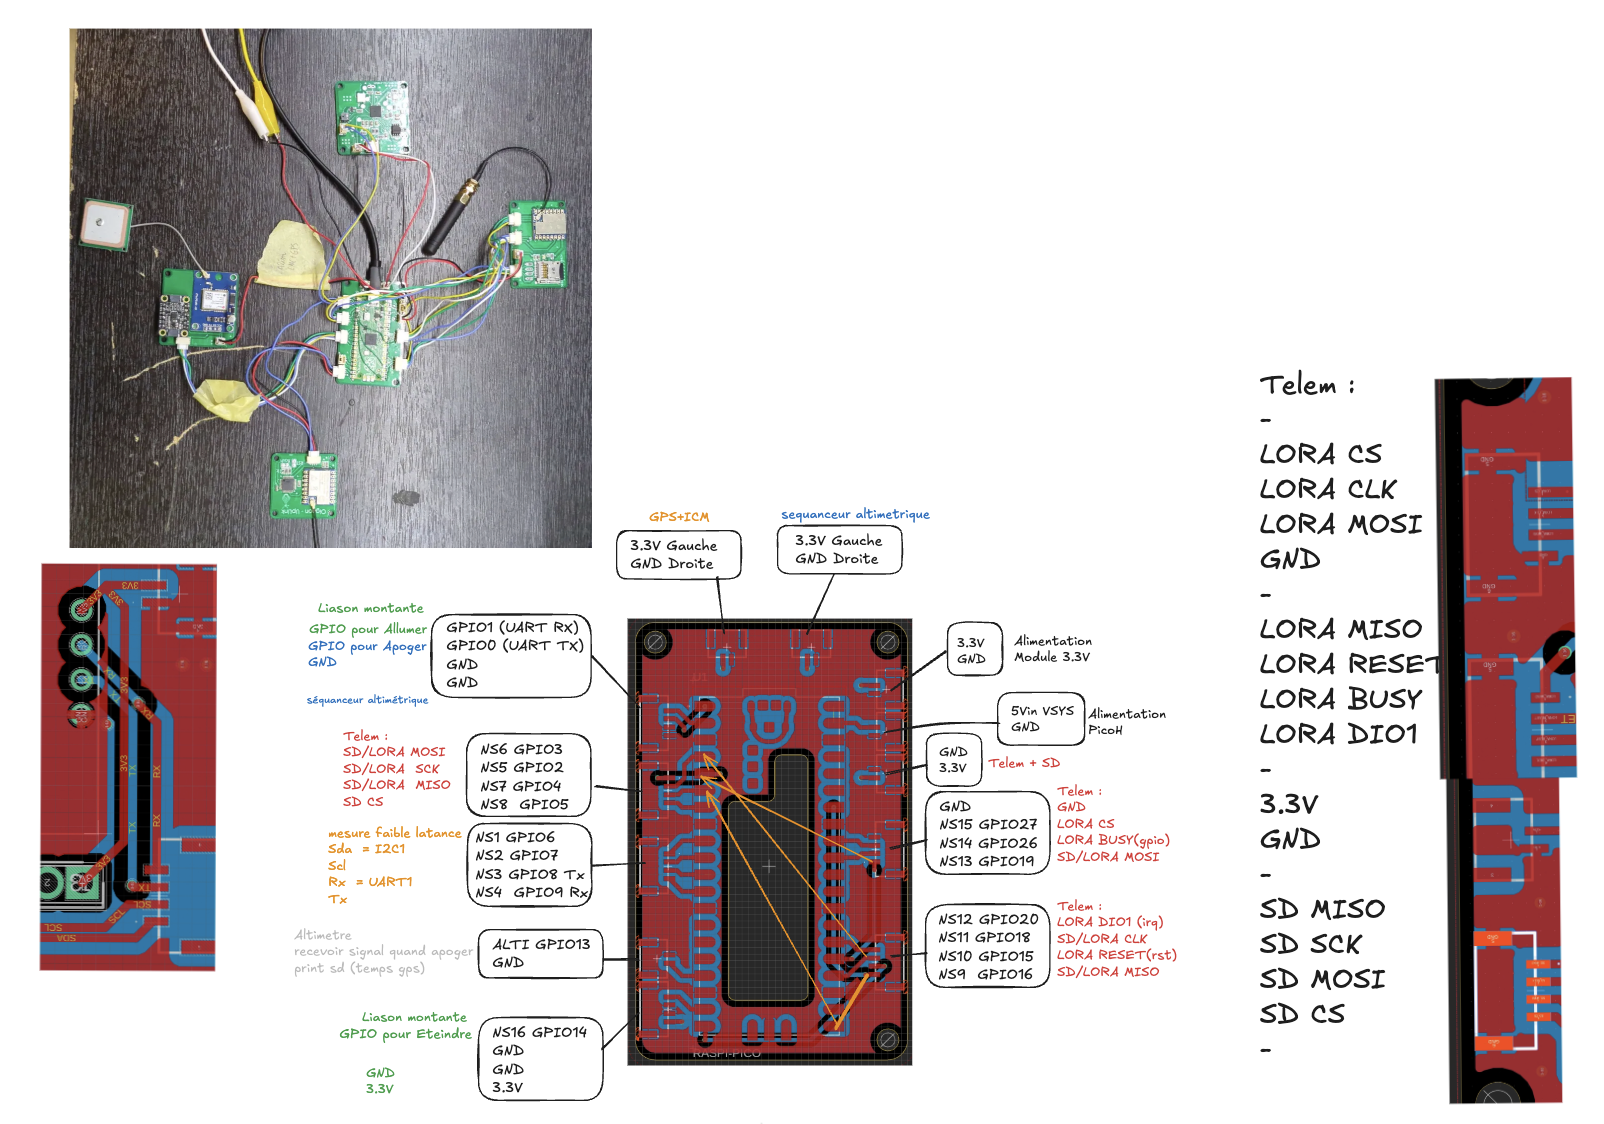
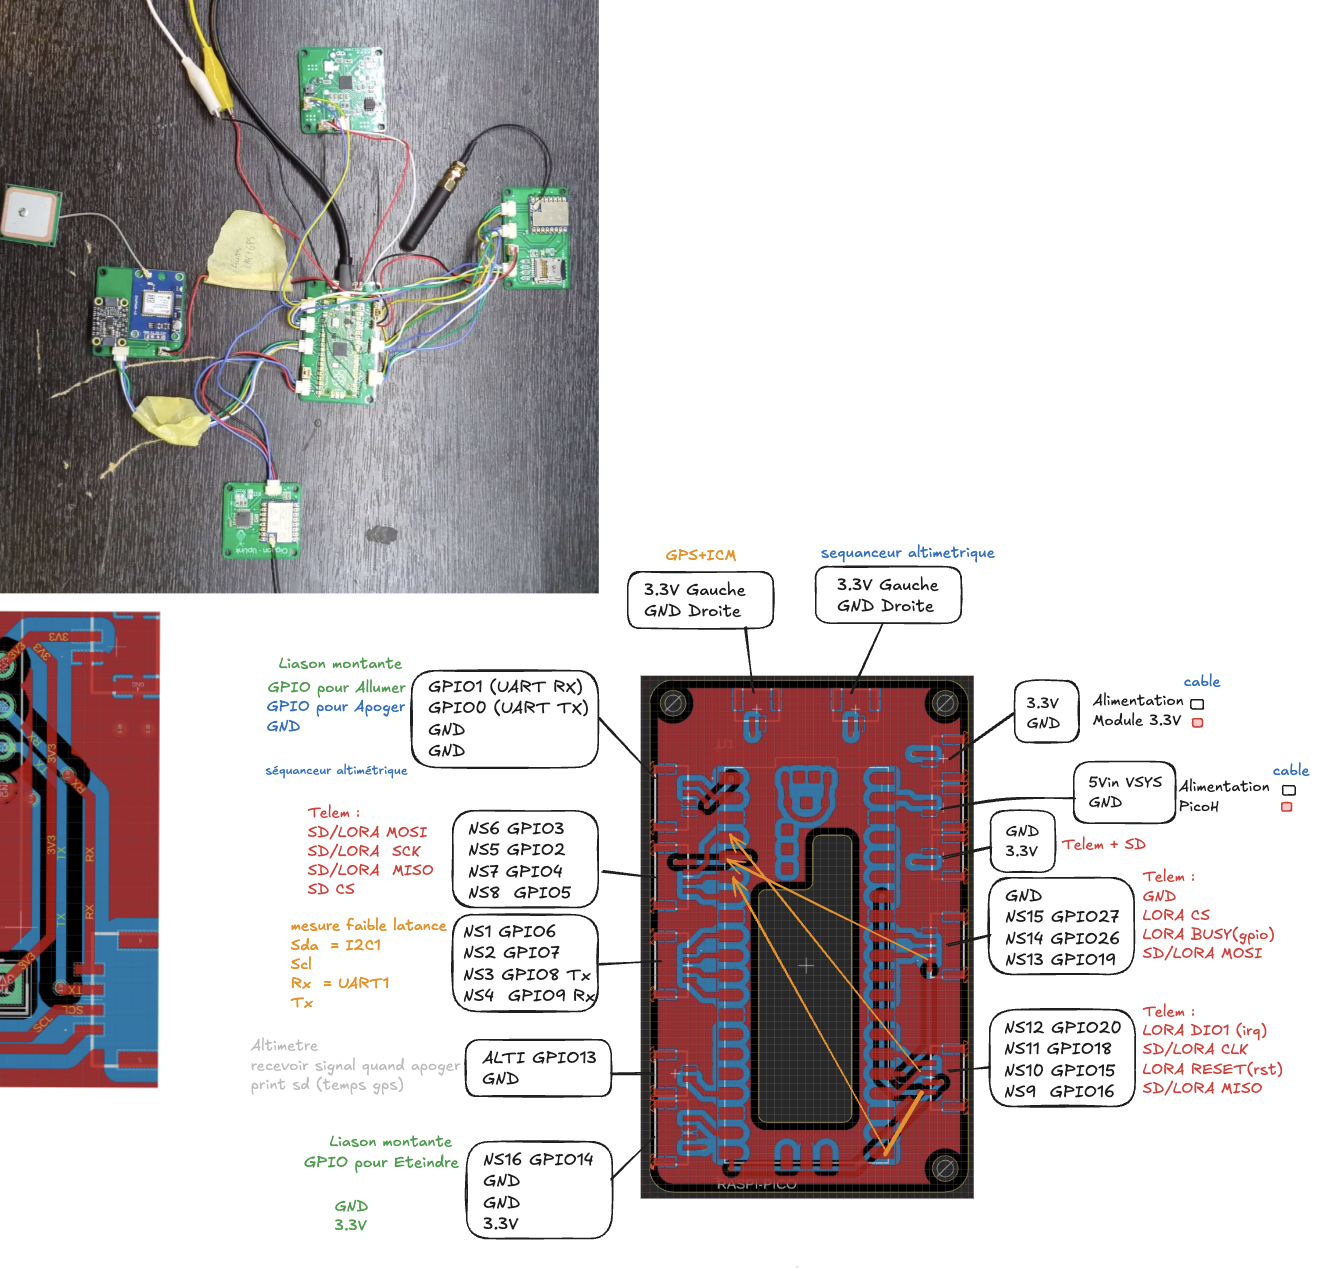
upate doc

diff --git a/ODV/ODV_in_raspi/main.py b/ODV/ODV_in_raspi/main.py
@@ -6,6 +6,8 @@ from GPSdata import GPSdata
 from LoRaTransceiver import LoRaTransceiver
 import gc
 
+gc.enable()
+
 toggelApo:bool = False
 toggelAll:bool = False
 toggelEte:bool = False
@@ -105,6 +107,7 @@ if __name__ == "__main__":
     senAccGyr.to_sleep()
     gp.to_sleep()
 
+    iswakepup:bool = False
     print("start")
     # mainModuleOn=True#!debug
     while True:
@@ -114,16 +117,17 @@ if __name__ == "__main__":
             print("allumer")
             senAccGyr.wake_up()
             gp.wake_up()
+            iswakepup = True
             # pas sleep lora si on envoie pas
             time.sleep(1)
 
         # ? quand boucle on
-        while mainModuleOn:
+        while mainModuleOn and iswakepup:
             time.sleep(timeWaitBoucl)
             # ? lire les datas
             res = ""
             res += str(senAccGyr) + ";" + str(gp)
-            print("res:", res) # ! debug
+            # print("res:", res) # ! debug
             # ? envoi data
             # envoyer carte sd
             sd.write(res)
@@ -131,8 +135,9 @@ if __name__ == "__main__":
             lora.send(res)
 
             # ? si off
-            if not mainModuleOn:  # on etteint les modules
+            if not mainModuleOn :  # on etteint les modules
                 print("eteindre")
-                mainModuleOn = 0
+                mainModuleOn = False
                 senAccGyr.to_sleep()
                 gp.to_sleep()
+                iswakepup:bool = False

diff --git a/ODV/DOC_CodeMain.md b/ODV/DOC_CodeMain.md
@@ -141,5 +141,9 @@ doit enlever le timer max (quand ne clignote plus faut l'eteindre et rallumer )
 att temps pour boucl 0.2 timeWaitBoucl
 quand allumer : 
   envoie en lora(quand il peut) + sd
-  
+  acceleroXYZ;gyroXYZ;latitude;longitude;altitude;nombre_satellite_utiliser;nombre_satellite_visible;vitesse;heure
   ex: -0.03:-0.00:9.91;0.01:0.00:0.01;0:0:0.0:N;0:0:0.0:W;0.0;0;1;0.0;0:0:0.0
+
+
+# Remarque 
+le file alimentnat la raspy + module (en haut à droite) son inverser (rouge = - et noir = + )
